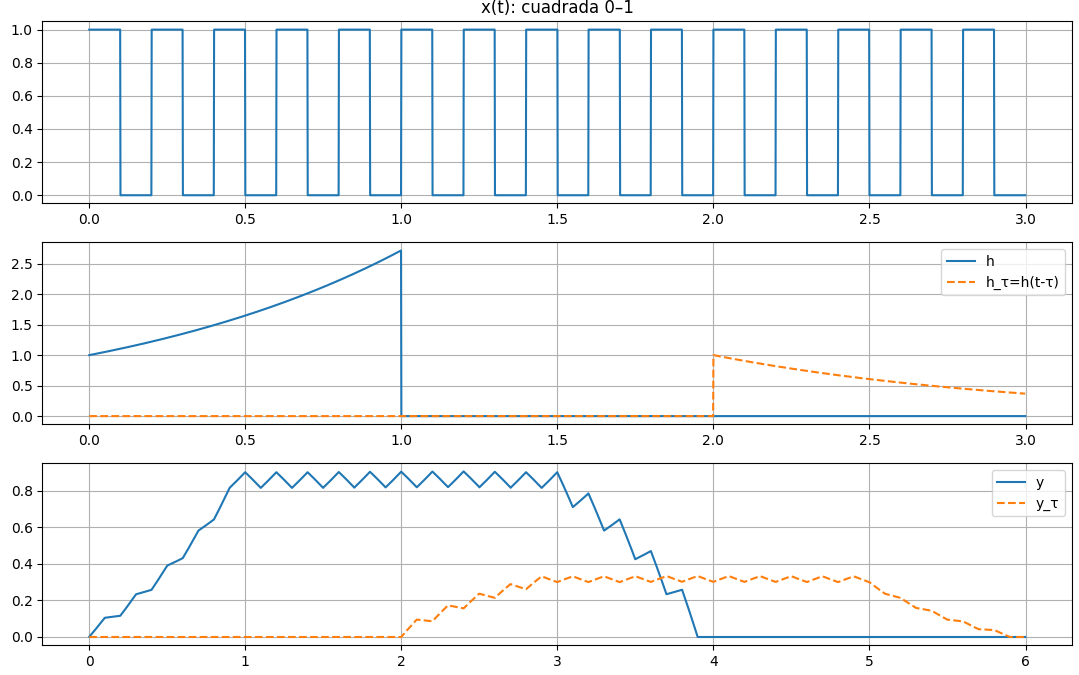
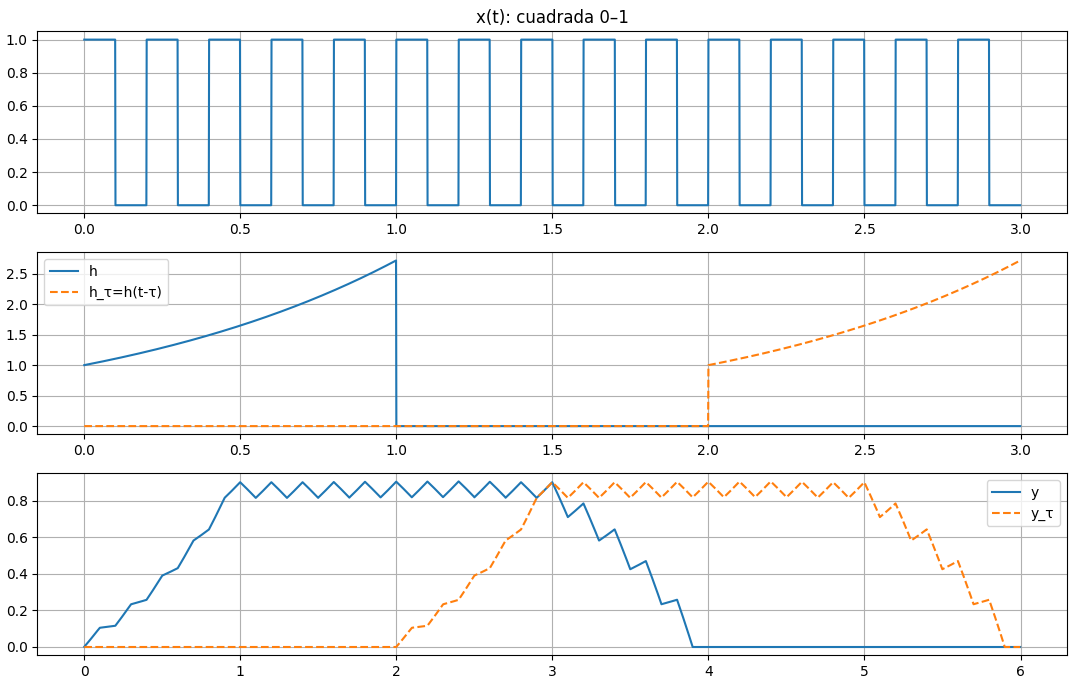
detalles finales, sujeto a cambios

Changed region(s): [[0.0, 0.0, 1.0, 0.9956], [0.4294, 0.8089, 0.46, 0.84]]

diff --git a/senalesYsistemas/lab2/Paso3/P3convolucion1.py b/senalesYsistemas/lab2/Paso3/P3convolucion1.py
@@ -2,22 +2,22 @@ import numpy as np
 import matplotlib.pyplot as plt
 from scipy import signal
 
-# === Parámetros (mismo estilo), solo más duración para evitar bordes ===
+# Parámetros 
 fs = 1000
 dt = 1/fs
 T_total = 3.0                      # > 1 s para ver régimen
 t = np.arange(0, T_total, dt)
 f = 5                              # Hz (mismo que antes)
 
-# === Señal periódica cuadrada como en tus pasos (0..1) ===
+
 cuadrada  = signal.square(2*np.pi*f*t)   # [-1,1]
 cuadrada_n = (cuadrada + 1)/2                  # [0,1]  <<— igual que en Paso 1
 
-# === Escalón unitario como en tus pasos ===
+# Escalón unitario
 u = lambda x: np.where(x >= 0, 1, 0)
 
-# === Respuesta al impulso (aperiódica) EXACTA de Paso 2 ===
-x_exp_dec = np.exp(-t) * (u(t) - u(t - 1))   # e^{-t}[u(t)-u(t-1)]
+# Respuesta al impulso h(t) = e^{-t}[u(t)-u(t-1)]
+x_exp_dec = np.exp(-t) * (u(t) - u(t - 1))   
 
 # === Convolución continua aproximada ===
 y = np.convolve(cuadrada_n, x_exp_dec, mode='full') * dt

diff --git a/senalesYsistemas/lab2/Paso3/P3convolucion3.py b/senalesYsistemas/lab2/Paso3/P3convolucion3.py
@@ -2,21 +2,21 @@ import numpy as np
 import matplotlib.pyplot as plt
 from scipy import signal
 
-# === Parámetros (mismo estilo), solo más duración para evitar bordes ===
+# Parámetros
 fs = 1000
 dt = 1/fs
 T_total = 3.0                      # > 1 s para ver régimen
 t = np.arange(0, T_total, dt)
 f = 5                              # Hz (mismo que antes)
 
-# === Señal periódica cuadrada como en tus pasos (0..1) ===
+# Señal periódica
 sierra = signal.sawtooth(2*np.pi*f*t)    # [-1,1]
 sierra_n = (sierra+1)/2                  # [0,1]  <<— igual que en Paso 1
 
-# === Escalón unitario como en tus pasos ===
+# Escalón unitario
 u = lambda x: np.where(x >= 0, 1, 0)
 
-# === Respuesta al impulso (aperiódica) EXACTA de Paso 2 ===
+# Respuesta al impulso 
 x_exp_dec = np.exp(-t) * (u(t) - u(t - 1))   # e^{-t}[u(t)-u(t-1)]
 
 # === Convolución continua aproximada ===

diff --git a/senalesYsistemas/lab2/Paso3/P3convolucion5.py b/senalesYsistemas/lab2/Paso3/P3convolucion5.py
@@ -2,21 +2,21 @@ import numpy as np
 import matplotlib.pyplot as plt
 from scipy import signal
 
-# === Parámetros (mismo estilo), solo más duración para evitar bordes ===
+# Parámetros
 fs = 1000
 dt = 1/fs
 T_total = 3.0                      # > 1 s para ver régimen
 t = np.arange(0, T_total, dt)
 f = 5                              # Hz (mismo que antes)
 
-# === Señal periódica cuadrada como en tus pasos (0..1) ===
+# Señal periódica
 tri = signal.sawtooth(2*np.pi*f*t, width=0.5)    # [-1,1]
 tri_n = (tri+1)/2                # [0,1]  <<— igual que en Paso 1
 
-# === Escalón unitario como en tus pasos ===
+# Escalón unitario
 u = lambda x: np.where(x >= 0, 1, 0)
 
-# === Respuesta al impulso (aperiódica) EXACTA de Paso 2 ===
+# Respuesta al impulso
 x_exp_dec = np.exp(-t) * (u(t) - u(t - 1))   # e^{-t}[u(t)-u(t-1)]
 
 # === Convolución continua aproximada ===

diff --git a/senalesYsistemas/lab2/Paso3/P3convolucion4.py b/senalesYsistemas/lab2/Paso3/P3convolucion4.py
@@ -2,21 +2,21 @@ import numpy as np
 import matplotlib.pyplot as plt
 from scipy import signal
 
-# === Parámetros (mismo estilo), solo más duración para evitar bordes ===
+# Parámetros
 fs = 1000
 dt = 1/fs
 T_total = 3.0                      # > 1 s para ver régimen
 t = np.arange(0, T_total, dt)
 f = 5                              # Hz (mismo que antes)
 
-# === Señal periódica cuadrada como en tus pasos (0..1) ===
+# Señal periódica
 sierra = signal.sawtooth(2*np.pi*f*t)    # [-1,1]
 sierra_n = (sierra+1)/2                  # [0,1]  <<— igual que en Paso 1
 
-# === Escalón unitario como en tus pasos ===
+# Escalón unitario
 u = lambda x: np.where(x >= 0, 1, 0)
 
-# === Respuesta al impulso (aperiódica) EXACTA de Paso 2 ===
+# Respuesta al impulso
 x_exp_cre = np.exp(t) * (u(t) - u(t - 1))   # e^{-t}[u(t)-u(t-1)]
 
 # === Convolución continua aproximada ===

diff --git a/senalesYsistemas/lab2/Paso4/P4con5-2.py b/senalesYsistemas/lab2/Paso4/P4con5-2.py
@@ -18,7 +18,7 @@ x = tri_n
 u = lambda x: np.where(x >= 0, 1, 0)
 
 
-h = np.exp(t) * (u(t) - u(t - 1))
+h = np.exp(-t) * (u(t) - u(t - 1))
 
 # Corrimiento (reconstruye h con (t - tau))
 tau = 2  # segundos
@@ -31,7 +31,7 @@ t_y   = np.arange(t[0]+t[0], t[-1]+t[-1] + dt, dt)[:len(y)]
 
 # Gráficas Generales
 plt.figure(figsize=(11,7))
-plt.subplot(3,1,1); plt.plot(t, x);              plt.title('x(t): cuadrada 0–1'); plt.grid(True)
+plt.subplot(3,1,1); plt.plot(t, x);              plt.title('x(t): triangular 0–1'); plt.grid(True)
 plt.subplot(3,1,2); plt.plot(t, h, label='h');   plt.plot(t, h_tau, '--', label='h_τ=h(t-τ)'); plt.legend(); plt.grid(True)
 plt.subplot(3,1,3); plt.plot(t_y, y, label='y'); plt.plot(t_y, y_tau, '--', label='y_τ');      plt.legend(); plt.grid(True)
 plt.tight_layout(); plt.show()

diff --git a/senalesYsistemas/lab2/Paso3/P3convolucion2.py b/senalesYsistemas/lab2/Paso3/P3convolucion2.py
@@ -2,18 +2,18 @@ import numpy as np
 import matplotlib.pyplot as plt
 from scipy import signal
 
-# === Parámetros (mismo estilo), solo más duración para evitar bordes ===
+# Parámetros
 fs = 1000
 dt = 1/fs
 T_total = 3.0                      # > 1 s para ver régimen
 t = np.arange(0, T_total, dt)
 f = 5                              # Hz (mismo que antes)
 
-# === Señal periódica cuadrada como en tus pasos (0..1) ===
+
 cuadrada  = signal.square(2*np.pi*f*t)   # [-1,1]
 cuadrada_n = (cuadrada + 1)/2                  # [0,1]  <<— igual que en Paso 1
 
-# === Escalón unitario como en tus pasos ===
+# Escalón unitario
 u = lambda x: np.where(x >= 0, 1, 0)
 
 

diff --git a/senalesYsistemas/lab2/Paso4/P4con2-2.py b/senalesYsistemas/lab2/Paso4/P4con2-2.py
@@ -22,7 +22,7 @@ h = np.exp(t) * (u(t) - u(t - 1))
 
 # Corrimiento (reconstruye h con (t - tau))
 tau = 2  # segundos
-h_tau = np.exp(-(t - tau)) * (u(t - tau) - u(t - tau - 1))  # <- mismo patrón que h, pero con (t - tau)
+h_tau = np.exp((t - tau)) * (u(t - tau) - u(t - tau - 1))  # <- mismo patrón que h, pero con (t - tau)
 
 # Convoluciones
 y     = np.convolve(x, h,     mode='full') * dt

diff --git a/senalesYsistemas/lab2/Paso4/P4con4-2.py b/senalesYsistemas/lab2/Paso4/P4con4-2.py
@@ -22,7 +22,7 @@ h = np.exp(t) * (u(t) - u(t - 1))
 
 # Corrimiento (reconstruye h con (t - tau))
 tau = 2  # segundos
-h_tau = np.exp(-(t - tau)) * (u(t - tau) - u(t - tau - 1))  # <- mismo patrón que h, pero con (t - tau)
+h_tau = np.exp((t - tau)) * (u(t - tau) - u(t - tau - 1))  # <- mismo patrón que h, pero con (t - tau)
 
 # Convoluciones
 y     = np.convolve(x, h,     mode='full') * dt

diff --git a/senalesYsistemas/lab2/Paso2.py b/senalesYsistemas/lab2/Paso2.py
@@ -18,8 +18,7 @@ x_delta = np.where(np.isclose(t, 0, atol=2e-3), 1, 0)
 x_escalon = u(t)
 
 # 5. Sinc: sin(x)/x (usamos np.sinc que ya normaliza como sin(pi x)/(pi x))
-x_sinc = np.sinc(t)
-
+x_sinc = np.sinc(t/np.pi)
 # --- Graficar ---
 fig, axs = plt.subplots(5, 1, figsize=(8, 10))
 
